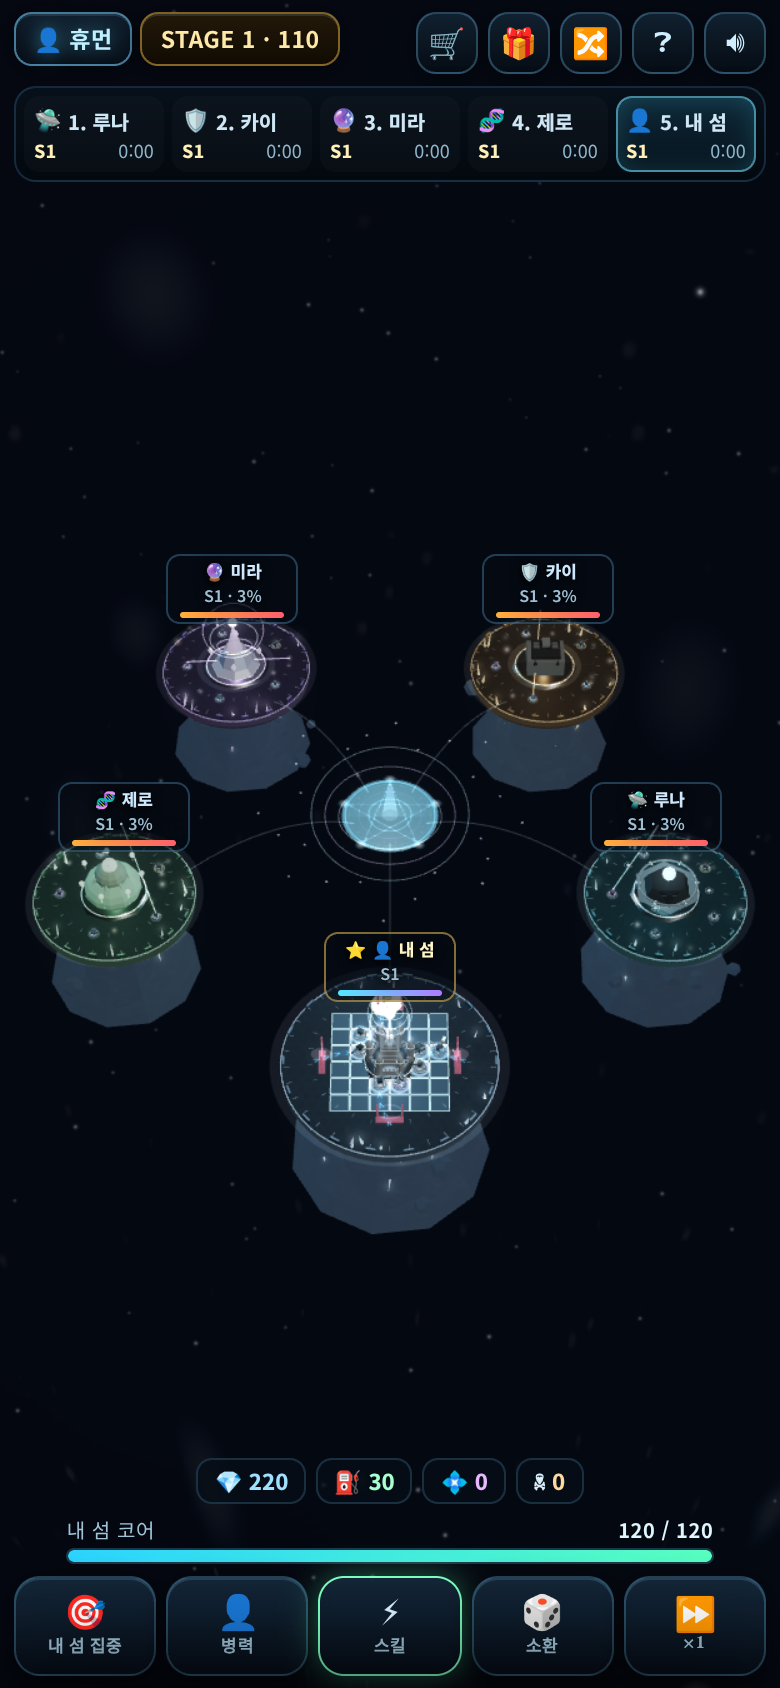
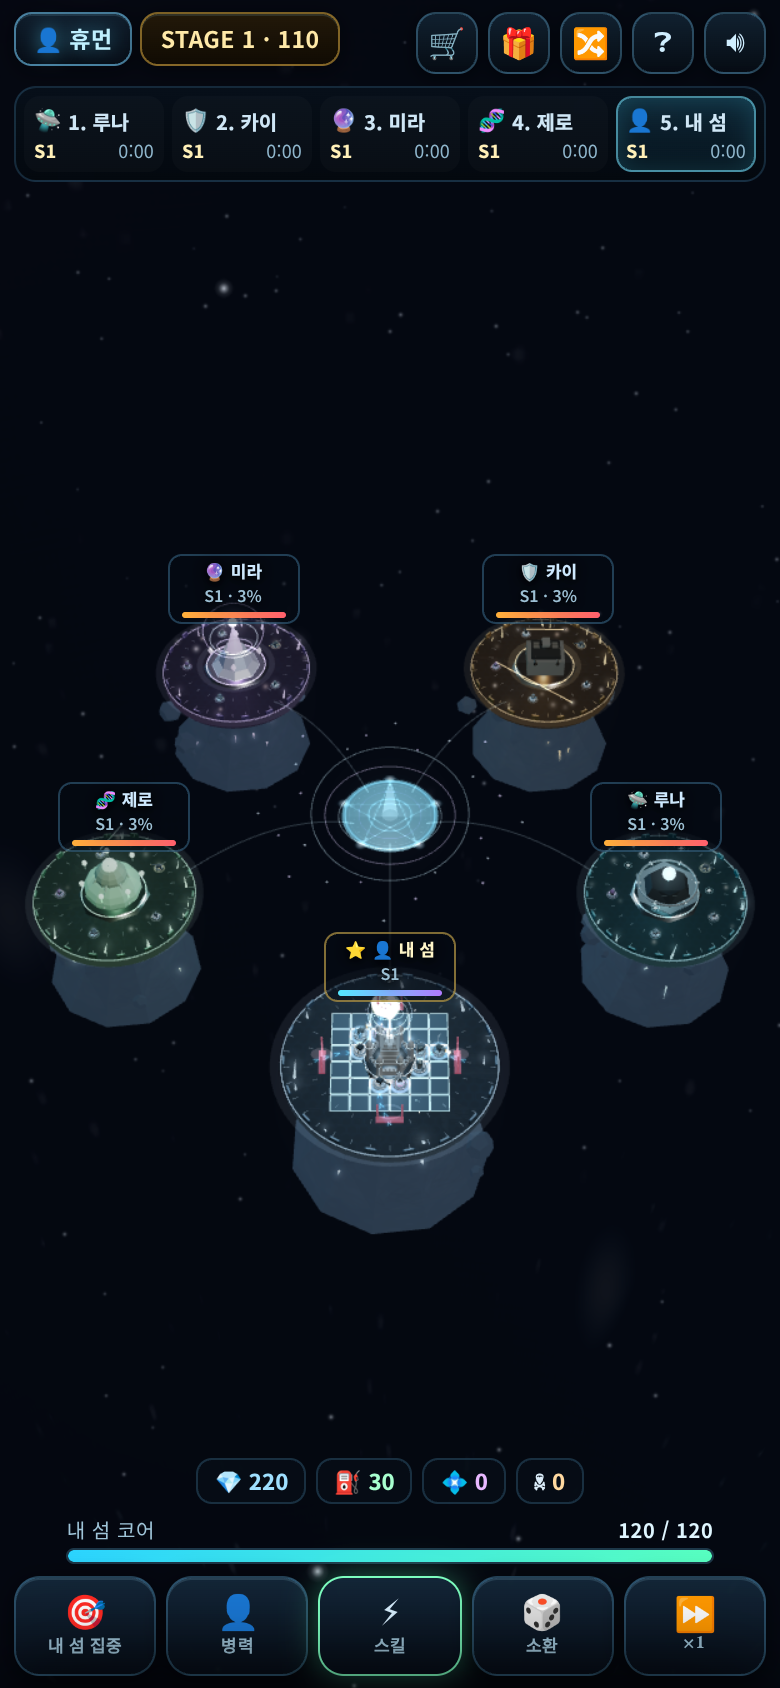
터렛 디펜스 v3: 5팀 순위표 상세(클리어타임·딜량) 추가 · 터렛 스케일/타일 대비 상향 · 미리보기 갱신

diff --git a/turret-defense/index.html b/turret-defense/index.html
@@ -3907,6 +3907,22 @@ function benefitTab(tab){
   });
 }
 
+/* ---------- 5팀 순위표 상세 ---------- */
+function openRanking(){
+  const rows = teamRows();
+  let html = '<div class="cbar"><span class="cl" style="background:#54e8ff;box-shadow:0 0 8px #54e8ff"></span><span>LIVE RANKING · 5팀 경쟁</span><span class="cv">40 STAGES</span></div><div class="cbody">' +
+    '<h1>실시간 순위</h1><p class="sub">스테이지 → 누적 딜량 순 · 클리어 타임은 40단계 완주 기록입니다.</p><div class="list">';
+  rows.forEach(function(r, i){
+    html += '<div class="item"><div class="ii">'+r.icon+'</div><div class="tx"><b>'+(i+1)+'위 · '+r.name+'</b>'+
+      '<span>스테이지 '+(r.stage>=WAVE_MAX?'FINAL':('S'+r.stage))+' · 클리어 '+fmtTime(r.time)+'</span>'+
+      '<span>누적 딜량 '+fmtNum(r.dmg)+'</span></div>'+
+      '<button class="buy'+(r.me?' free':'')+'">'+(r.me?'나':'AI')+'</button></div>';
+  });
+  html += '</div></div><div style="padding:2px 12px 12px"><button class="cta ghost" id="mClose">닫기</button></div>';
+  openModal(html);
+  $('mClose').onclick = closeModal;
+}
+
 /* ---------- 레시피 ---------- */
 function openRecipes(){
   let html = '<div class="cbar"><span class="cl" style="background:#ffc24d;box-shadow:0 0 8px #ffc24d"></span><span>CROSS-FUSION · 이종족 합체</span><span class="cv">5 RECIPES</span></div><div class="cbody">'+
@@ -4102,6 +4118,7 @@ function bindUI(){
     S.speed = S.speed >= 3 ? 1 : S.speed + 1;
     refreshHud();
   };
+  $('teamStrip').onclick = openRanking;
   $('btnShop').onclick = function(){ shopTab('item'); };
   $('btnBene').onclick = function(){ benefitTab('daily'); };
   $('btnRec').onclick = openRecipes;
